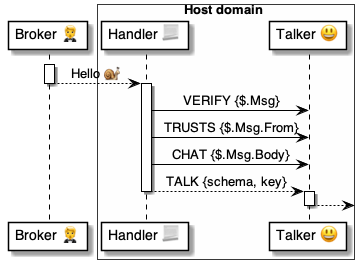
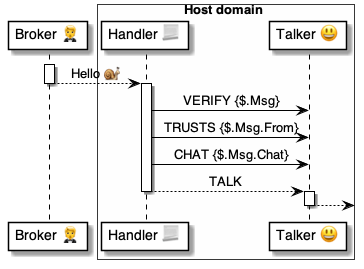
.

Changed region(s): [[0.4533, 0.5353, 0.8159, 0.6245], [0.4533, 0.6543, 0.7857, 0.7138]]

diff --git a/4 ⚙ Solution/20 🧑🦰 UI/Brokers 🤵/🤵🅰 Broker methods/Chats 💬 Chat 🤗🚀🤵/🤵 Chat 🚀 request.md b/4 ⚙ Solution/20 🧑🦰 UI/Brokers 🤵/🤵🅰 Broker methods/Chats 💬 Chat 🤗🚀🤵/🤵 Chat 🚀 request.md
@@ -41,15 +41,35 @@ ID: <chat-uuid>
 PublicKey: ... 
 Timezone: UTC+1
 Language: en-us
+
+# Locator
+Schema: nlweb.dom/THING
+Key: MY-THING-ID
+Parameters: 
+    Param1: Value1
+    Param2: Value2
+
+# Shares
+Binds: 
+    - <bind-#1-uuid>
+    - <bind-#2-uuid>
+Tokens:
+    - <token-#1-uuid>
+    - <token-#2-uuid>
 ```
 
 
-| | Property  | Type  | Description | Origin
-|-|-|-|-|-
-| | `ID`        | uuid  | [Chat 💬](<../../../../35 💬 Chats/Chats 💬/💬 Chat.md>) | [`Converse@Notifier`](<../../../Notifiers 📣/📣🅰 Notifier methods/Chats 💬 Converse 🤵🐌📣/📣 Converse 📣 msg.md>)
-|| `PublicKey` |string| To verify [Messages 📨](<../../../../30 🧩 Data/Messages 📨/📨 Message/📨 Message.md>) from [Wallets 🧑🦰](<../../../Wallets 🧑🦰/🧑🦰 Wallet app/🧑🦰 Wallet 🛠 app.md>) | 
-|| `Timezone`|string| For the [`.Now`](<../../../../37 Scripts 📃/📃 Functions 🐍/🐍 System 🔩 functions/🔩 {.Now}.md>) and [`.Today`](<../../../../37 Scripts 📃/📃 Functions 🐍/🐍 System 🔩 functions/🔩 {.Today}.md>) functions 
-|| `Language` |string| For the [`.Translate`](<../../../../37 Scripts 📃/📃 Functions 🐍/🐍 System 🔩 functions/🔩 {.Translate}.md>) function 
+| | Property  | Type  | Description | Origin|Purpose
+|-|-|-|-|-|-
+| | `ID`        | uuid  | [Chat 💬](<../../../../35 💬 Chats/Chats 💬/💬 Chat.md>) | [`Converse@`](<../../../Notifiers 📣/📣🅰 Notifier methods/Chats 💬 Converse 🤵🐌📣/📣 Converse 📣 msg.md>)
+|| `PublicKey` |string| For  [Wallet 🧑🦰](<../../../Wallets 🧑🦰/🧑🦰 Wallet app/🧑🦰 Wallet 🛠 app.md>) [Messages 📨](<../../../../30 🧩 Data/Messages 📨/📨 Message/📨 Message.md>)  | |[`Prompted@`](<../../../../41 🎭 Domain Roles/Hosts 🤗/🤗🅰 Host methods/Prompted 🧑🦰🚀🤗/🤗 Prompted 🚀 request.md>)<br/>[`Reply@`](<../../../../41 🎭 Domain Roles/Hosts 🤗/🤗🅰 Host methods/Reply 🧑🦰🐌🤗/🤗 Reply 🐌 msg.md>) <br/>[`Download@`](<../../../../41 🎭 Domain Roles/Hosts 🤗/🤗🅰 Host methods/Download 🧑🦰🚀🤗/🤗 Download 🚀 request.md>)
+|| `Timezone`|string| For [`.Now`](<../../../../37 Scripts 📃/📃 Functions 🐍/🐍 System 🔩 functions/🔩 {.Now}.md>) and [`.Today`](<../../../../37 Scripts 📃/📃 Functions 🐍/🐍 System 🔩 functions/🔩 {.Today}.md>)  
+|| `Language` |string| For the [`.Translate`](<../../../../37 Scripts 📃/📃 Functions 🐍/🐍 System 🔩 functions/🔩 {.Translate}.md>) function | [`Language@`](<../../../../20 🧑🦰 UI/Brokers 🤵/🤵🅰 Broker methods/Wallets 🧑🦰 Language 🧑🦰🐌🤵/🤵 Language 🐌 msg.md>) | [`Prompt@`](<../Chats 💬 Prompt 🤗🐌🤵/🤵 Prompt 🐌 msg.md>)
+|           | `Schema`    | string    | Locator  [Schema 🧩](<../../../../30 🧩 Data/Codes 🧩/🧩 Schema Code.md>) | [`Assess@`](<../../../../20 🧑🦰 UI/Brokers 🤵/🤵🅰 Broker methods/Locators 🔆 Assess 🧑🦰🐌🤵/🤵 Assess 🐌 msg.md>)
+|           | `Key` | string    | [Host 🤗](<../../../../41 🎭 Domain Roles/Hosts 🤗/🤗 Host role/🤗🎭 Host role.md>) [Locator 🔆](<../../../../25 🔆 Locators/Locators 🔆/🔆 Locator.md>) | [`Assess@`](<../../../../20 🧑🦰 UI/Brokers 🤵/🤵🅰 Broker methods/Locators 🔆 Assess 🧑🦰🐌🤵/🤵 Assess 🐌 msg.md>) | 
+|| `Parameters`| object | Custom parameters | [`Assess@`](<../../../../20 🧑🦰 UI/Brokers 🤵/🤵🅰 Broker methods/Locators 🔆 Assess 🧑🦰🐌🤵/🤵 Assess 🐌 msg.md>)
+|           | `Tokens`  | uuid[] | Host  [Tokens 🎫](<../../../../30 🧩 Data/Tokens 🎫/🎫 Token/🎫 Token.md>)  | [`Offer@`](<../../../../20 🧑🦰 UI/Brokers 🤵/🤵🅰 Broker methods/Tokens 🎫 Offer 🎴🐌🤵/🤵 Offer 🐌 msg.md>)
+|| `Binds`   | uuid[] | Host [Binds 🔗](<../../../../30 🧩 Data/Binds 🔗/🔗 Bind.md>)  | [`Bound@`](<../../../../41 🎭 Domain Roles/Vaults 🗄/🗄🅰 Vault methods/Bound 🤵🐌🗄/🗄 Bound 🐌 msg.md>)
 |
 
 

diff --git a/4 ⚙ Solution/41 🎭 Domain Roles/Hosts 🤗/🤗🅰 Host methods/Hello 🤵🐌🤗/🤗 Hello 🐌 msg.md b/4 ⚙ Solution/41 🎭 Domain Roles/Hosts 🤗/🤗🅰 Host methods/Hello 🤵🐌🤗/🤗 Hello 🐌 msg.md
@@ -25,19 +25,7 @@ Header:
     Subject: Hello@Host
 
 Body:
-    Language: en-us
     Chat: <chat-uuid>
-    Schema: nlweb.dom/THING
-    Key: MY-THING-ID
-    Binds: 
-        - <bind-#1-uuid>
-        - <bind-#2-uuid>
-    Tokens:
-        - <token-#1-uuid>
-        - <token-#2-uuid>
-    Parameters: 
-        Param1: Value1
-        Param2: Value2
 ```
 
 
@@ -46,14 +34,7 @@ Body:
 | Header    |`From`|domain| [Broker 🤵](<../../../../20 🧑🦰 UI/Brokers 🤵/🤵 Broker helper/🤵 Broker 🤲 helper.md>) | [`Assess@`](<../../../../20 🧑🦰 UI/Brokers 🤵/🤵🅰 Broker methods/Locators 🔆 Assess 🧑🦰🐌🤵/🤵 Assess 🐌 msg.md>)
 |           |`To`|domain| [Host 🤗](<../../🤗 Host role/🤗🎭 Host role.md>)  | [`Assess@`](<../../../../20 🧑🦰 UI/Brokers 🤵/🤵🅰 Broker methods/Locators 🔆 Assess 🧑🦰🐌🤵/🤵 Assess 🐌 msg.md>)
 |           | `Subject` | string    | `Hello@Host`
-| Body           | `Binds`   | uuid[] | Host [Binds 🔗](<../../../../30 🧩 Data/Binds 🔗/🔗 Bind.md>)  | [`Bound@`](<../../../Vaults 🗄/🗄🅰 Vault methods/Bound 🤵🐌🗄/🗄 Bound 🐌 msg.md>)
-|| `Chat`  | uuid      | [Chat 💬](<../../../../35 💬 Chats/Chats 💬/💬 Chat.md>) ID 
-|      | `Language`| enum    | ISO language code | [`Language@`](<../../../../20 🧑🦰 UI/Brokers 🤵/🤵🅰 Broker methods/Wallets 🧑🦰 Language 🧑🦰🐌🤵/🤵 Language 🐌 msg.md>)
-|           | `Key` | string    | [Host 🤗](<../../🤗 Host role/🤗🎭 Host role.md>) [Locator 🔆](<../../../../25 🔆 Locators/Locators 🔆/🔆 Locator.md>) | [`Assess@`](<../../../../20 🧑🦰 UI/Brokers 🤵/🤵🅰 Broker methods/Locators 🔆 Assess 🧑🦰🐌🤵/🤵 Assess 🐌 msg.md>) | 
-|| `Parameters`| object | Custom parameters | [`Assess@`](<../../../../20 🧑🦰 UI/Brokers 🤵/🤵🅰 Broker methods/Locators 🔆 Assess 🧑🦰🐌🤵/🤵 Assess 🐌 msg.md>)
-|           | `PublicKey`| string | For signing || [`Prompted@`](<../Prompted 🧑🦰🚀🤗/🤗 Prompted 🚀 request.md>)<br/>[`Reply@`](<../Reply 🧑🦰🐌🤗/🤗 Reply 🐌 msg.md>) <br/>[`Download@`](<../Download 🧑🦰🚀🤗/🤗 Download 🚀 request.md>)
-|           | `Schema`    | string    | Locator  [Schema 🧩](<../../../../30 🧩 Data/Codes 🧩/🧩 Schema Code.md>) | [`Assess@`](<../../../../20 🧑🦰 UI/Brokers 🤵/🤵🅰 Broker methods/Locators 🔆 Assess 🧑🦰🐌🤵/🤵 Assess 🐌 msg.md>)
-|           | `Tokens`  | uuid[] | Host  [Tokens 🎫](<../../../../30 🧩 Data/Tokens 🎫/🎫 Token/🎫 Token.md>)  | [`Offer@`](<../../../../20 🧑🦰 UI/Brokers 🤵/🤵🅰 Broker methods/Tokens 🎫 Offer 🎴🐌🤵/🤵 Offer 🐌 msg.md>)
+| Body    | `Chat`  | uuid      | [Chat 💬](<../../../../35 💬 Chats/Chats 💬/💬 Chat.md>) ID 
 |
 
 <br/>

diff --git a/4 ⚙ Solution/41 🎭 Domain Roles/Hosts 🤗/🤗🅰 Host methods/Hello 🤵🐌🤗/🤗 Hello 📃 handler.md b/4 ⚙ Solution/41 🎭 Domain Roles/Hosts 🤗/🤗🅰 Host methods/Hello 🤵🐌🤗/🤗 Hello 📃 handler.md
@@ -22,28 +22,18 @@
 
 # Assert the message
 - ASSERT|$.Msg:
-    - AllOf: Chat, Language, PublicKey, Schema, Key
-    - Texts: Language, PublicKey, Schema, Key
+    - AllOf: Chat
     - UUIDs: Chat
-    - Lists: Binds, Tokens, Parameters
 
 # Save the data
 - CHAT:
     Broker: $.Msg.From
-    | `Broker` | [Broker 🤵 domain](<../../../../20 🧑🦰 UI/Brokers 🤵/🤵 Broker helper/🤵 Broker 🤲 helper.md>) | `any-broker.dom`
-    | `ID` | [Chat 💬](<../../../../35 💬 Chats/Chats 💬/💬 Chat.md>) ID | `<chat-uuid>`
-    | `Key`| Chat [Locator 🔆](<../../../../25 🔆 Locators/Locators 🔆/🔆 Locator.md>) Key | `$.Chat.Key` → `ANY-KEY`
-    | `Role` | What [emoji](<../../../../35 💬 Chats/Prompts 🤔/🤔✏ Prompt inputs/😶 Input emojis.md>) to show | `HOST` `AGENT` `HELPER`
-    | `PublicKey` | To verify [Messages 📨](<../../../../30 🧩 Data/Messages 📨/📨 Message/📨 Message.md>) | [`VERIFY`](<../../../../37 Scripts 📃/📃 Commands ⌘/⌘ for messages 📨/VERIFY 🔐/🔐 VERIFY ⌘ cmd.md>) [`$.Msg`](<../../../../37 Scripts 📃/📃 Holders 🧠/🧠 System holders/$.Msg 📨/📨 $.Msg 🧠 holder.md>) `PublicKey`
-    | `Timezone`| For the [`.Now`](<../../../../37 Scripts 📃/📃 Functions 🐍/🐍 System 🔩 functions/🔩 {.Now}.md>) function | `UTC+1` `PST` 
-    | `Language` | For the [`.Now`](<../../../../37 Scripts 📃/📃 Functions 🐍/🐍 System 🔩 functions/🔩 {.Now}.md>) function | `en-us`
-    :$.Msg.Body:  
+    Chat: $.Msg.Chat
 
 # Start a Chat for the locator
 - TALK:
-    Chat: $.Msg.Chat
-    Schema: $.Msg.Schema 
-    Key: $.Msg.Key
+    Schema: $.Chat.Schema 
+    Key: $.Chat.Key
 ```
 
 
